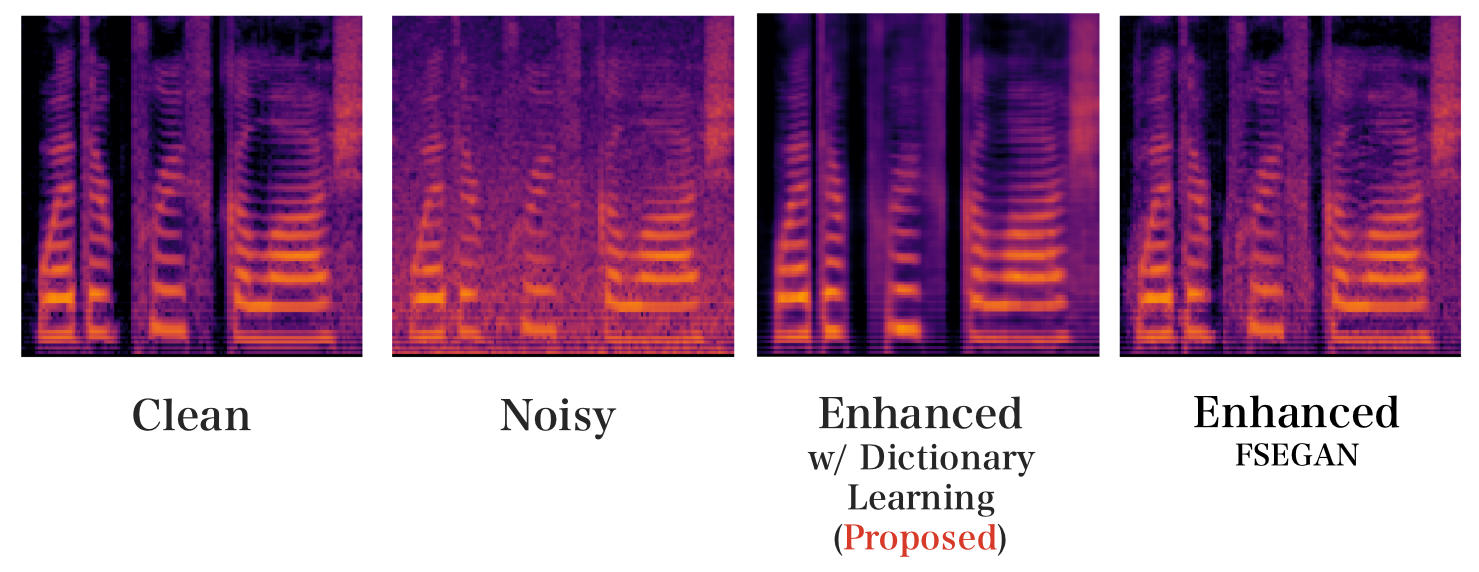
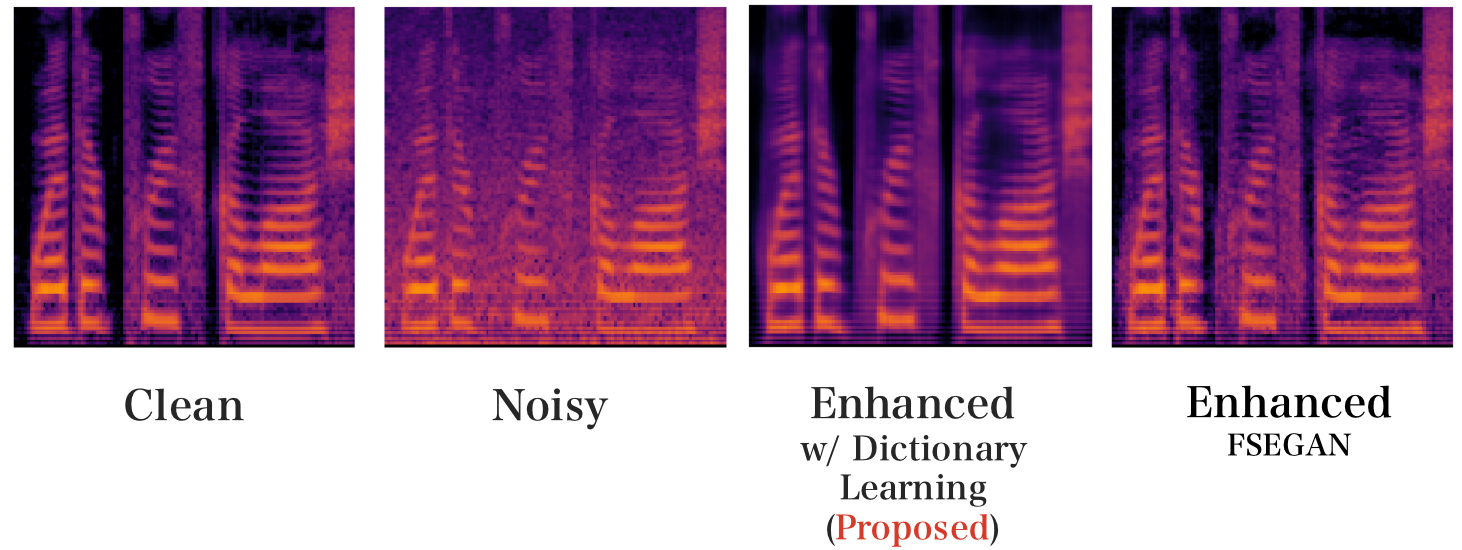
update fig

diff --git a/README.md b/README.md
@@ -47,7 +47,7 @@ bash checkpoint.sh [input_snr] [epoch]
 <img src="loss/enhancement_model.png" width="700">
 </div>
 
-##### Outputs qualitative comparison on the spectrograms of the test speaker
+##### Outputs qualitative comparison on the log/mel spectrograms of the test speaker
 <div align="center">
 <img src="figs/result.png" width="700">
 </div>
